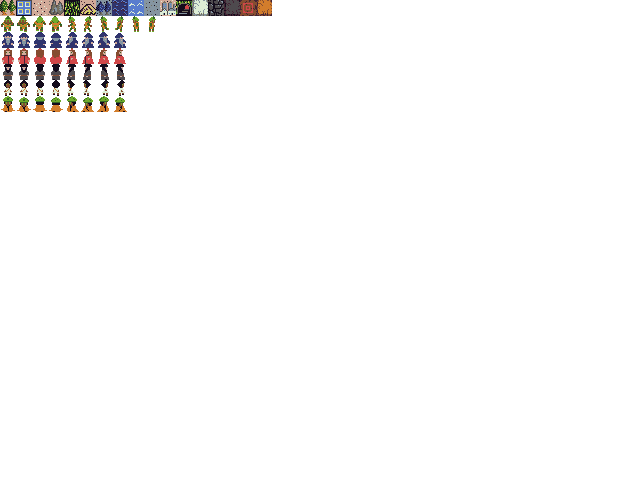
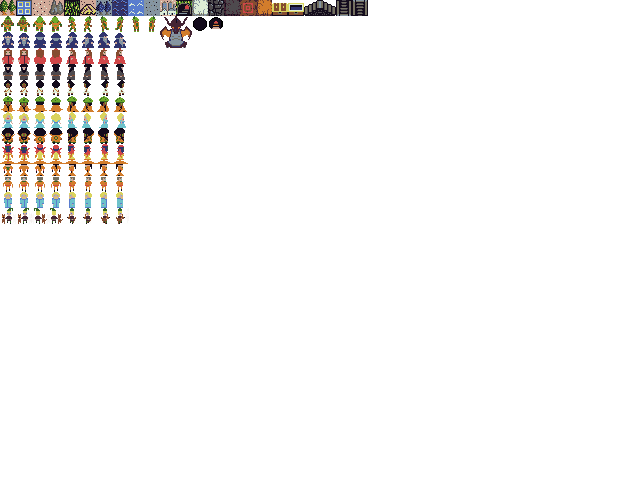
added in dragon
dragon still crashes game.

Changed region(s): [[0.0, 0.2188, 0.2188, 0.4688], [0.4062, 0.0, 0.5938, 0.0312], [0.25, 0.0312, 0.3438, 0.125]]

diff --git a/maps.js b/maps.js
@@ -9,21 +9,28 @@
 	tileSheet.src = "tiles_16.png";
 	fightBackground.src = "fightBackground.png";
 	
-	var forest      = new Tile(0,  0, true);
-	var sand        = new Tile(2,  0, true);
-	var nightForest = new Tile(6,  0, true);
-	var water       = new Tile(8,  0, false);
-	var swamp       = new Tile(4,  0, true);
-	var mountain    = new Tile(3,  0, false);
-	var nightSand   = new Tile(9,  0, true);
-	var city        = new Tile(10, 0, true);
-	var dungeon     = new Tile(11, 0, true);
-	var tileFloor   = new Tile(1,  0, true);
-	var woodBlock   = new Tile(12, 0, false);
-	var stones      = new Tile(13, 0, true);
-	var darkStone   = new Tile(14, 0, false);
-	var redFloor    = new Tile(15, 0, true);
-	var orStone     = new Tile(16, 0, false);
+	var forest          = new Tile(0,  0, true);
+	var sand            = new Tile(2,  0, true);
+	var nightForest     = new Tile(6,  0, true);
+	var water           = new Tile(8,  0, false);
+	var swamp           = new Tile(4,  0, true);
+	var mountain        = new Tile(3,  0, false);
+	var nightSand       = new Tile(9,  0, true);
+	var city            = new Tile(10, 0, true);
+	var dungeon         = new Tile(11, 0, true);
+	var tileFloor       = new Tile(1,  0, true);
+	var woodBlock       = new Tile(12, 0, false);
+	var stones          = new Tile(13, 0, true);
+	var darkStone       = new Tile(14, 0, false);
+	var redFloor        = new Tile(15, 0, true);
+	var orStone         = new Tile(16, 0, false);
+	var dragonLeftHead  = new Tile(10, 1, true);
+	var dragonRightHead = new Tile(11, 1, true);
+	var dragonLeftBody  = new Tile(10, 2, true);
+	var dragonRightBody = new Tile(11, 2, true);
+	var stairsUp        = new Tile(21, 0, true);
+	var chestClosed     = new Tile(17, 0, true);
+	var chestOpen       = new Tile(18, 0, true);
 	
 	function eventPicLoaded() {
 		startUp();
@@ -201,7 +208,7 @@
 			[3,5,5,3,6,1,2,2,2,2,2,6,6,3,5,5,5,5,5,3,5,5,5,3],
 			[3,3,3,3,3,3,3,3,3,3,3,1,6,3,3,3,3,3,3,3,3,3,3,3]
 		];
-	
+	pallas.NpcList = [];
 	pallas.leaveTown = function(){
 		state= OVERWORLD;
 		context.setTransform(1,0,0,1,0,0);
@@ -217,10 +224,10 @@
 	var map = fingerhut;
 	
 	var dungeon = Object.create(fingerhut);
-	//                   0         1             2         3          4         5        6
-	dungeon.tileList = [stones, nightForest, nightSand, darkStone, redFloor, orStone, water];
+	//                   0         1             2         3          4         5        6      7
+	dungeon.tileList = [stones, nightForest, nightSand, darkStone, redFloor, orStone, water, stairsUp];
 	dungeon.layout= [
-			[3,3,3,3,3,3,3,3,3,3,3,1,1,3,3,3,3,3,3,3,3,3,3,3],
+			[3,3,3,3,3,3,3,3,3,3,3,3,3,3,3,3,3,3,3,3,3,3,3,3],
 			[3,2,2,2,2,2,2,2,2,2,2,0,0,2,2,0,2,3,2,2,2,2,2,3],
 			[3,2,3,5,1,5,1,5,3,2,2,0,1,4,2,2,1,3,3,3,3,3,1,3],
 			[3,2,1,5,2,0,2,5,1,2,2,0,1,2,4,5,1,3,0,0,0,3,1,3],
@@ -236,26 +243,33 @@
 			[3,0,5,1,0,1,4,0,0,0,0,0,0,0,0,0,6,6,3,2,4,3,3,3],
 			[3,0,0,3,0,3,4,3,3,1,1,2,6,2,2,6,6,6,2,2,2,6,2,3],
 			[3,3,3,3,2,3,0,0,0,1,1,6,6,6,6,6,6,6,6,2,2,2,2,3],
-			[3,0,0,3,0,1,0,5,0,2,1,6,2,2,6,2,2,2,0,2,2,2,2,3],
-			[3,0,0,1,2,3,3,3,3,0,0,6,2,3,3,3,3,3,0,3,3,3,5,3],
-			[3,0,0,3,0,3,0,0,3,2,2,6,6,3,0,0,3,5,4,3,5,5,5,3],
-			[3,0,0,0,0,1,0,0,3,1,2,2,6,3,0,0,3,3,4,3,3,3,5,3],
-			[3,0,0,0,0,0,0,0,3,1,1,6,6,0,0,0,3,4,4,4,4,3,0,3],
-			[3,0,0,1,0,3,3,3,3,2,2,6,1,3,0,0,3,4,4,4,4,3,0,3],
-			[3,0,0,3,0,1,2,2,2,2,2,6,6,3,0,0,3,4,4,4,4,3,0,3],
+			[3,3,0,3,0,1,0,5,0,2,1,6,2,2,6,2,2,2,0,2,2,2,2,3],
+			[3,3,0,1,2,3,3,3,3,0,0,6,2,3,3,3,3,3,0,3,3,3,5,3],
+			[3,3,0,3,0,3,0,0,3,2,2,6,6,3,0,0,3,5,4,3,5,5,5,3],
+			[3,3,0,3,0,1,0,0,3,1,2,2,6,3,0,0,3,3,4,3,3,3,5,3],
+			[3,3,0,0,0,0,0,0,3,1,1,6,6,0,0,0,3,4,4,4,4,3,0,3],
+			[3,3,0,3,0,3,3,3,3,2,2,6,1,3,0,0,3,4,4,4,4,3,0,3],
+			[3,3,7,3,0,1,2,2,2,2,2,6,6,3,0,0,3,4,4,4,4,3,0,3],
 			[3,3,3,3,3,3,3,3,3,3,3,1,6,3,3,3,3,3,3,3,3,3,3,3]
 		];
 	dungeon.NpcList = [];
+	dungeon.specialLocations = {
+		boss: [6,18]
+	}
+	dungeon.drawSpecialLocations = function(){
+		dragon.drawOnMap(dungeon.specialLocations.boss[0], dungeon.specialLocations.boss[1]);
+	}
 	dungeon.enterTown = function(){
-		state = TOWN;	
-		hero.tilePos = [11,1];
-		hero.targetTile = [11,1];
-		hero.x = 320;
-		hero.y = 64;
+		state = DUNGEON;	
+		hero.tilePos = [2,22];
+		hero.targetTile = [2,22];
+		hero.x = 128;
+		hero.y = 576;
 		context.setTransform(1,0,0,1,0,0);
-		context.translate(-384, 0);
+		context.translate(0, -832);
 		map = this;
 	}
+	
 	dungeon.leaveTown = function(){
 		state = OVERWORLD;
 		context.setTransform(1,0,0,1,0,0);
@@ -268,7 +282,20 @@
 		hero.x = 512;
 		hero.y = 320;	
 	}
-	
+	dungeon.checkSpecialTiles = function(){
+		//check if walked to stairs
+		if((hero.targetTile[0] == 2 && hero.targetTile[1] == 22) &&
+			(hero.tilePos[0] != 2 || hero.tilePos[1] != 22)
+		){
+			dungeon.leaveTown();
+			hero.direction = "stop";
+		}
+		//check to see if walked on dragon
+		console.log('checking tiles');
+		if(dragon.collision(dungeon.specialLocations.boss[0], dungeon.specialLocations.boss[1])){
+			dragon.battle();
+		}
+	}
 	function showDebugInfo(){
 		keyOutput.innerHTML = "Keys up: <br> up = " + keys.upUp+ " <br>left = " + keys.leftUp + " <br> right = " + keys.rightUp + " <br> down = " + keys.downUp; 
 		keyOutput.innerHTML += "<br> direction = " + hero.direction;
@@ -342,6 +369,9 @@
 		hero.draw();
 		if(map.drawNPCs){
 			map.drawNPCs();
+		}
+		if(state == DUNGEON){
+			dungeon.drawSpecialLocations();
 		}
 	}
 	

diff --git a/npc.js b/npc.js
@@ -67,6 +67,77 @@ var kidShroomSprites = [
 						new Tile(6,6, true),
 						new Tile(7,6, true)
 					 ]
+var blondeSprites = [
+						new Tile(0,7, true),
+						new Tile(1,7, true),
+						new Tile(2,7, true),
+						new Tile(3,7, true),
+						new Tile(4,7, true),
+						new Tile(5,7, true),
+						new Tile(6,7, true),
+						new Tile(7,7, true)
+]
+var afroGuySprites = [
+						new Tile(0,8, true),
+						new Tile(1,8, true),
+						new Tile(2,8, true),
+						new Tile(3,8, true),
+						new Tile(4,8, true),
+						new Tile(5,8, true),
+						new Tile(6,8, true),
+						new Tile(7,8, true)
+]
+var alienSprites = [
+						new Tile(0,9, true),
+						new Tile(1,9, true),
+						new Tile(2,9, true),
+						new Tile(3,9, true),
+						new Tile(4,9, true),
+						new Tile(5,9, true),
+						new Tile(6,9, true),
+						new Tile(7,9, true)
+]
+var ninjaZorroSprites = [
+						new Tile(0,10, true),
+						new Tile(1,10, true),
+						new Tile(2,10, true),
+						new Tile(3,10, true),
+						new Tile(4,10, true),
+						new Tile(5,10, true),
+						new Tile(6,10, true),
+						new Tile(7,10, true)
+]
+var technicianSprites = [
+						new Tile(0,11, true),
+						new Tile(1,11, true),
+						new Tile(2,11, true),
+						new Tile(3,11, true),
+						new Tile(4,11, true),
+						new Tile(5,11, true),
+						new Tile(6,11, true),
+						new Tile(7,11, true)
+]
+var moustacheSprites = [
+						new Tile(0,12, true),
+						new Tile(1,12, true),
+						new Tile(2,12, true),
+						new Tile(3,12, true),
+						new Tile(4,12, true),
+						new Tile(5,12, true),
+						new Tile(6,12, true),
+						new Tile(7,12, true)
+]
+
+var dogBoySprites = [
+						new Tile(0,13, true),
+						new Tile(1,13, true),
+						new Tile(2,13, true),
+						new Tile(3,13, true),
+						new Tile(4,13, true),
+						new Tile(5,13, true),
+						new Tile(6,13, true),
+						new Tile(7,13, true)
+]
 
 function NPC(name, sprites, xTile, yTile, message){
 	this.name = name;

diff --git a/RPG_enemies.js b/RPG_enemies.js
@@ -109,6 +109,7 @@ var enemies = {
 		this.pics[6] = loadImage('shadow_tendrils.png');
 		this.pics[7] = loadImage('skeleton.png');
 		this.pics[8] = loadImage('zombie.png');
+		this.pics[9] = loadImage('Dragon3.png');
 	},
 	getZone : function(){
 		if(hero.tilePos[0] < 13){
@@ -129,6 +130,10 @@ var enemies = {
 		}
 	},
 	selectBaddy : function(){
+		if(state == DUNGEON){
+			return dragon;
+		}
+		
 		var baddy = randomInt(0, this.zones[this.zone].length -1);
 		console.log("zone = " + this.zone + " baddy number" + baddy);
 		return enemies.list[this.zones[this.zone][baddy]];
@@ -142,7 +147,7 @@ var enemies = {
 	},
 	areThere : function(){
 		var encounterRoll = Math.random();
-		if(encounterRoll < 0.5){
+		if(encounterRoll < 0.2){
 			return true;
 		}
 		else{
@@ -150,4 +155,38 @@ var enemies = {
 		}
 	}
 }
+var dragon = {};
+Enemy.apply(dragon, [9, "Dragon", 60, 10, 0, 0.3, 0]);
+dragon.prototype = new Enemy();
+dragon.drawOnMap = function(x, y){
+	dragonLeftHead.draw(x, y);
+	dragonRightHead.draw(x+1, y);
+	dragonLeftBody.draw(x, y+1);
+	dragonRightBody.draw(x+1, y+1);
+}
+dragon.collision = function(dragonx, dragony){
+	if(dragonx != hero.targetTile[0] && dragonx + 1 != hero.targetTile[0]){
+		return false;
+	}
+	else if(dragony != hero.targetTile[1] && dragony + 1 != hero.targetTile[1]){
+		return false;
+	}
+	else if((dragonx == hero.tilePos[0] && dragony == hero.tilePos[1]) ||
+	(dragonx + 1 == hero.tilePos[0] && dragony + 1 == hero.tilePos[1])){
+		return false;
+	}
+	else{
+		return true;
+	}
+}
+dragon.battle = function(){
+		fightButton.style.display  = "inline";
+		runButton.style.display    = "inline";
+		fightButton.disabled = false;
+		runButton.disabled   = false;
+		combat.currentEnemy = dragon;
+		combat.attachEvents();
+		state = BATTLE;
+}
+
 enemies.loadPics();

diff --git a/hero.js b/hero.js
@@ -235,7 +235,7 @@ var hero= {
 				hero.tryAction();
 			}		
 			else{
-				if(state == TOWN || state == OVERWORLD){
+				if(state == TOWN || state == OVERWORLD|| state == DUNGEON){
 					hero.getTargetTile();
 					hero.getMoveStyle();
 				}
